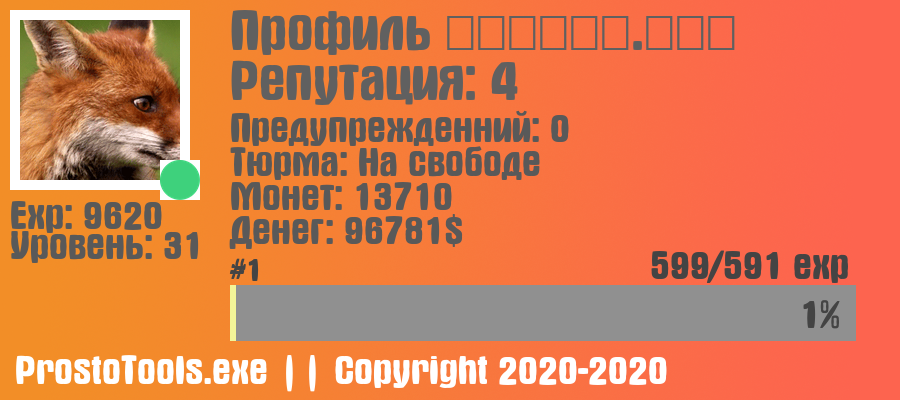
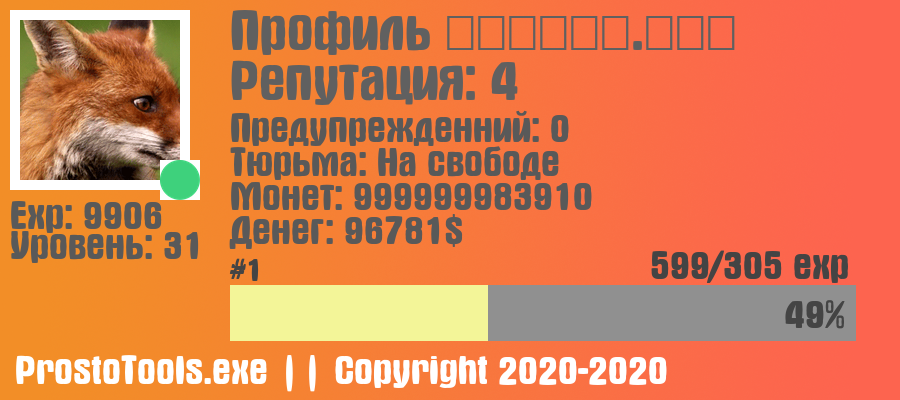
BOT::: Fixes

diff --git a/Cogs/economy.py b/Cogs/economy.py
@@ -1670,7 +1670,7 @@ class Economy(commands.Cog, name = 'Economy'):
 		level_exp = math.floor(9 * (user_level ** 2) + 50 * user_level + 125 * multi)
 		previus_level_exp = math.floor(9 * ((user_level - 1) ** 2) + 50 * (user_level - 1) + 125 * multi)
 		progress_bar_percent = round(((level_exp - user_exp) / (level_exp - previus_level_exp)) * 100)
-		user_image_status = Image.open(self.BACKGROUND[:-8]+statuses[member.status.name]+'.png')
+		user_image_status = Image.open(self.BACKGROUND[:-8]+statuses[member.status.name]+'.png').convert('RGBA')
 
 		if user_state_prison:
 			user_state_prison = 'Сейчас в тюрме'
@@ -1698,7 +1698,7 @@ class Economy(commands.Cog, name = 'Economy'):
 		idraw.text((10, 200), f'Exp: {user_exp}', font = midletext, fill = colours[user_profile][0])
 		idraw.text((10, 230), f'Уровень: {user_level}', font = midletext, fill = colours[user_profile][0])
 		idraw.text((230, 113), f'Предупрежденний: {user_warns}', font = midletext, fill = colours[user_profile][0])
-		idraw.text((230, 147), f'Тюрма: {user_state_prison}', font = midletext, fill = colours[user_profile][0])
+		idraw.text((230, 147), f'Тюрьма: {user_state_prison}', font = midletext, fill = colours[user_profile][0])
 		idraw.text((230, 181), f'Монет: {user_coins}', font = midletext, fill = colours[user_profile][0] )
 		idraw.text((230, 215), f'Денег: {user_money}$', font = midletext, fill = colours[user_profile][0])
 		idraw.rectangle((230, 285, 855, 340), fill='#909090')
@@ -1709,7 +1709,7 @@ class Economy(commands.Cog, name = 'Economy'):
 		idraw.text((15, 355), self.FOOTER, font = midletext)
 
 		img.save(self.SAVE)
-		await ctx.send( file = discord.File( fp = self.SAVE ) )
+		await ctx.send(file=discord.File(fp=self.SAVE))
 
 
 def setup( client ):

diff --git a/Cogs/help.py b/Cogs/help.py
@@ -176,7 +176,7 @@ class Help(commands.Cog, name = 'Help'):
 		for c in self.client.get_cog(cog_name.capitalize()).get_commands():
 			if self.client.get_cog(cog_name.capitalize()).qualified_name.lower() in groups:
 				for command in c.commands:
-					emb_2.add_field(name = f'{PREFIX}{c.usage}', value = f'{c.description[2:-2]}.', inline = False)
+					emb_2.add_field(name = f'{PREFIX}{command.usage}', value = f'{command.description[2:-2]}.', inline = False)
 			else:
 				emb_2.add_field(name = f'{PREFIX}{c.usage}', value = f'{c.description[2:-2]}.', inline = False)
 		emb_2.set_author( name = self.client.user.name, icon_url = self.client.user.avatar_url )

diff --git a/bot.py b/bot.py
@@ -33,6 +33,7 @@ class Client(commands.AutoShardedBot):
 		with open( filename, 'r', encoding='utf-8' ) as f:
 			return f.read()
 
+
 	def get_guild_prefix(self, ctx):
 		data = DB().sel_guild(guild=ctx.guild)
 		return str(data['prefix'])
